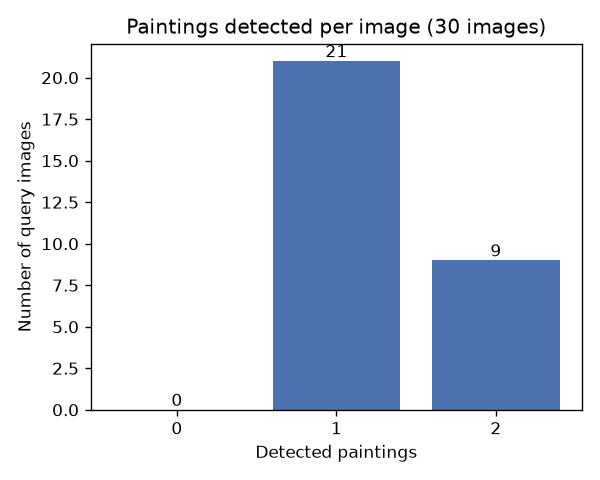
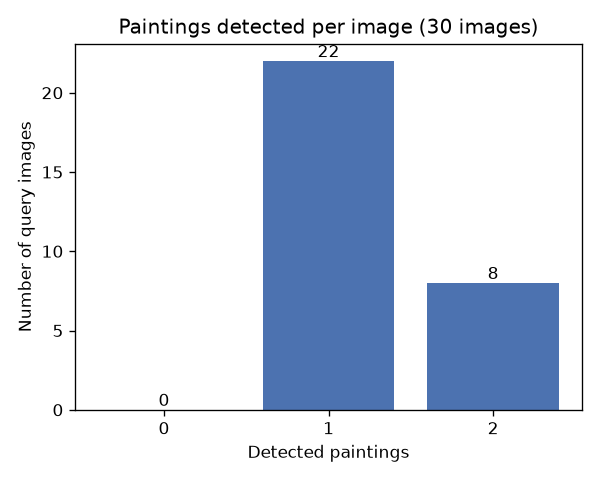
Baseline main

diff --git a/w3/main.py b/w3/main.py
@@ -6,39 +6,39 @@ from tqdm import tqdm
 
 DATA_DIR = Path(__file__).resolve().parent.parent / "data"
 BBDD_DIR = DATA_DIR / "BBDD"
-QUERY_DIR = DATA_DIR / "qsd2_w3" / "non_augmented"
+QUERY_DIR = DATA_DIR / "qsd2_w3"
 OUTPUT_DIR = Path(__file__).resolve().parent / "output"
 
-GROUND_TRUTH_DIR = QUERY_DIR.parent / "gt_corresps.pkl"
+GROUND_TRUTH_DIR = QUERY_DIR / "gt_corresps.pkl"
 
 SAVE_VISUALIZATIONS = True
 SAVE_RESULTS = True
 K = 10
 
-PARAMS = {
-    "descriptor": dct_block_descriptor,
-    "color_code": cv2.COLOR_BGR2YCrCb,
-    "channels": [0, 1, 2],
-    "size": 672,
-    "metric": "cityblock",
-    "kwargs": {
-        "n_blocks": 6,
-        "n_coef": 20,
-        "skip_dc": True,
-    },
-}
-
 # PARAMS = {
-#     "descriptor": dct_pyramid_descriptor,
+#     "descriptor": dct_block_descriptor,
 #     "color_code": cv2.COLOR_BGR2YCrCb,
 #     "channels": [0, 1, 2],
 #     "size": 672,
-#     "metric": "canberra",
+#     "metric": "cityblock",
 #     "kwargs": {
-#         "n_coef": 32,
-#         "skip_dc": False,
+#         "n_blocks": 6,
+#         "n_coef": 20,
+#         "skip_dc": True,
 #     },
 # }
+
+PARAMS = {
+    "descriptor": dct_pyramid_descriptor,
+    "color_code": cv2.COLOR_BGR2YCrCb,
+    "channels": [0, 1, 2],
+    "size": 672,
+    "metric": "canberra",
+    "kwargs": {
+        "n_coef": 32,
+        "skip_dc": False,
+    },
+}
 
 
 # =============================================================================

diff --git a/w3/utils.py b/w3/utils.py
@@ -77,7 +77,7 @@ def denoise_image(image_bgr):
     if impulse_fraction <= 0.01:
         return image_bgr.copy()
 
-    return cv2.median(image_bgr, (3, 3))
+    return cv2.medianBlur(image_bgr, 3)
 
 # =============================================================================
 # DESCRIPTORS
